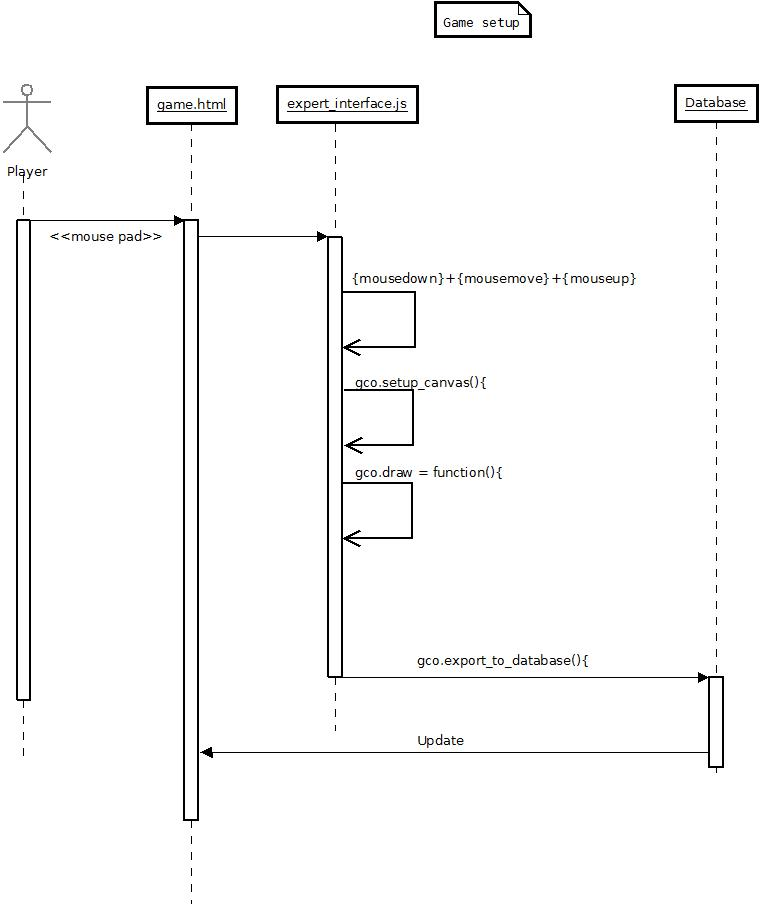
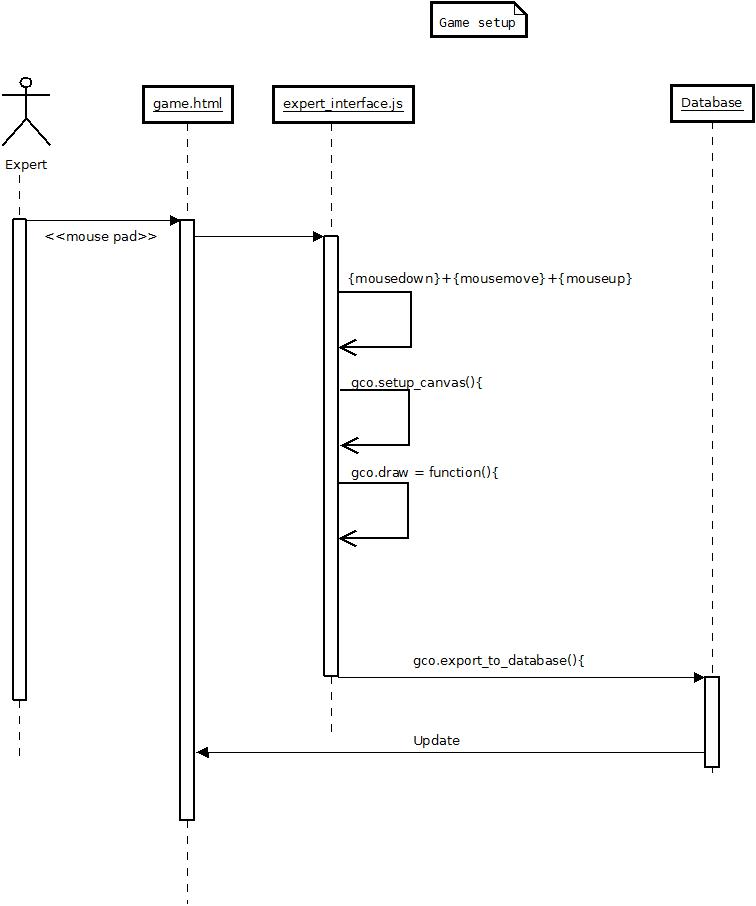
added info for the sequence diagrams

diff --git a/pages/implementation.tex b/pages/implementation.tex
@@ -58,10 +58,20 @@ Se figur over: Skal det være apostrof etter Administration?
 \subsection{Object hierarchy}
 This chart is intended to show a high level view of the hierarchy, and how the objects are connected together to avoid loops. 
 
+\subsection{Sequence diagrams}
+
+The sequence diagrams show the interactions between the files, functions and methods. It depicts the objects and files interactions in the right time sequence. The diagrams also show the calls each method or a file sends to the next file, function or method.  \\
+
+%TODO:image move_game_piecec_sekvensdiagram.jpeg
+
+The above diagram show the interaction between the JavaScript  files when a player decides to move his or hers game piece. The player initializes the sequence by clicking on the game piece in his HTML view. The first file after the HTML view is the game.js, the file that handles and interprets player inputs. The game.js file interacts with client.js which is the file handling every visual update of the game board. The file server.js Imports http and makes a server that socket.io can listen to; it connects the game interactions and game view with the engine. The file engine.js handles the game logic and game rules. When the interaction is at this point the engine.js fires a change to the client that in turn updates the view in the HTML file.\\
+
+%TODO:image use_info_cards_sekvens.jpeg
+
+The above diagram shows the interactions of the JavaScript files when a player uses an information card in the game. The sequence is very similar to the previous diagram but is different in the types of data or methods it sends between the files. At the end it updates different parts of the game (gco.update();).\\
 
 
+%TODO:image game_setup_sekvens.jpeg
 
-
-
-
+The above diagram shows the interaction of the JavaScript files when an expert creates a game, the details of this is explained thoroughly in the use cases. The expert uses the mouse pad to interact with the game.html page, and is directed to the expert interface. The file expert_interface.js is where all the dragging of the nodes, and creating and placing of the zones and players are created. When the expert is finished the game object is stored to the database. The last interactions is when game.html is updated when it get notifications from the database. The game can now be chosen from a list in game.html and played. \\
 
